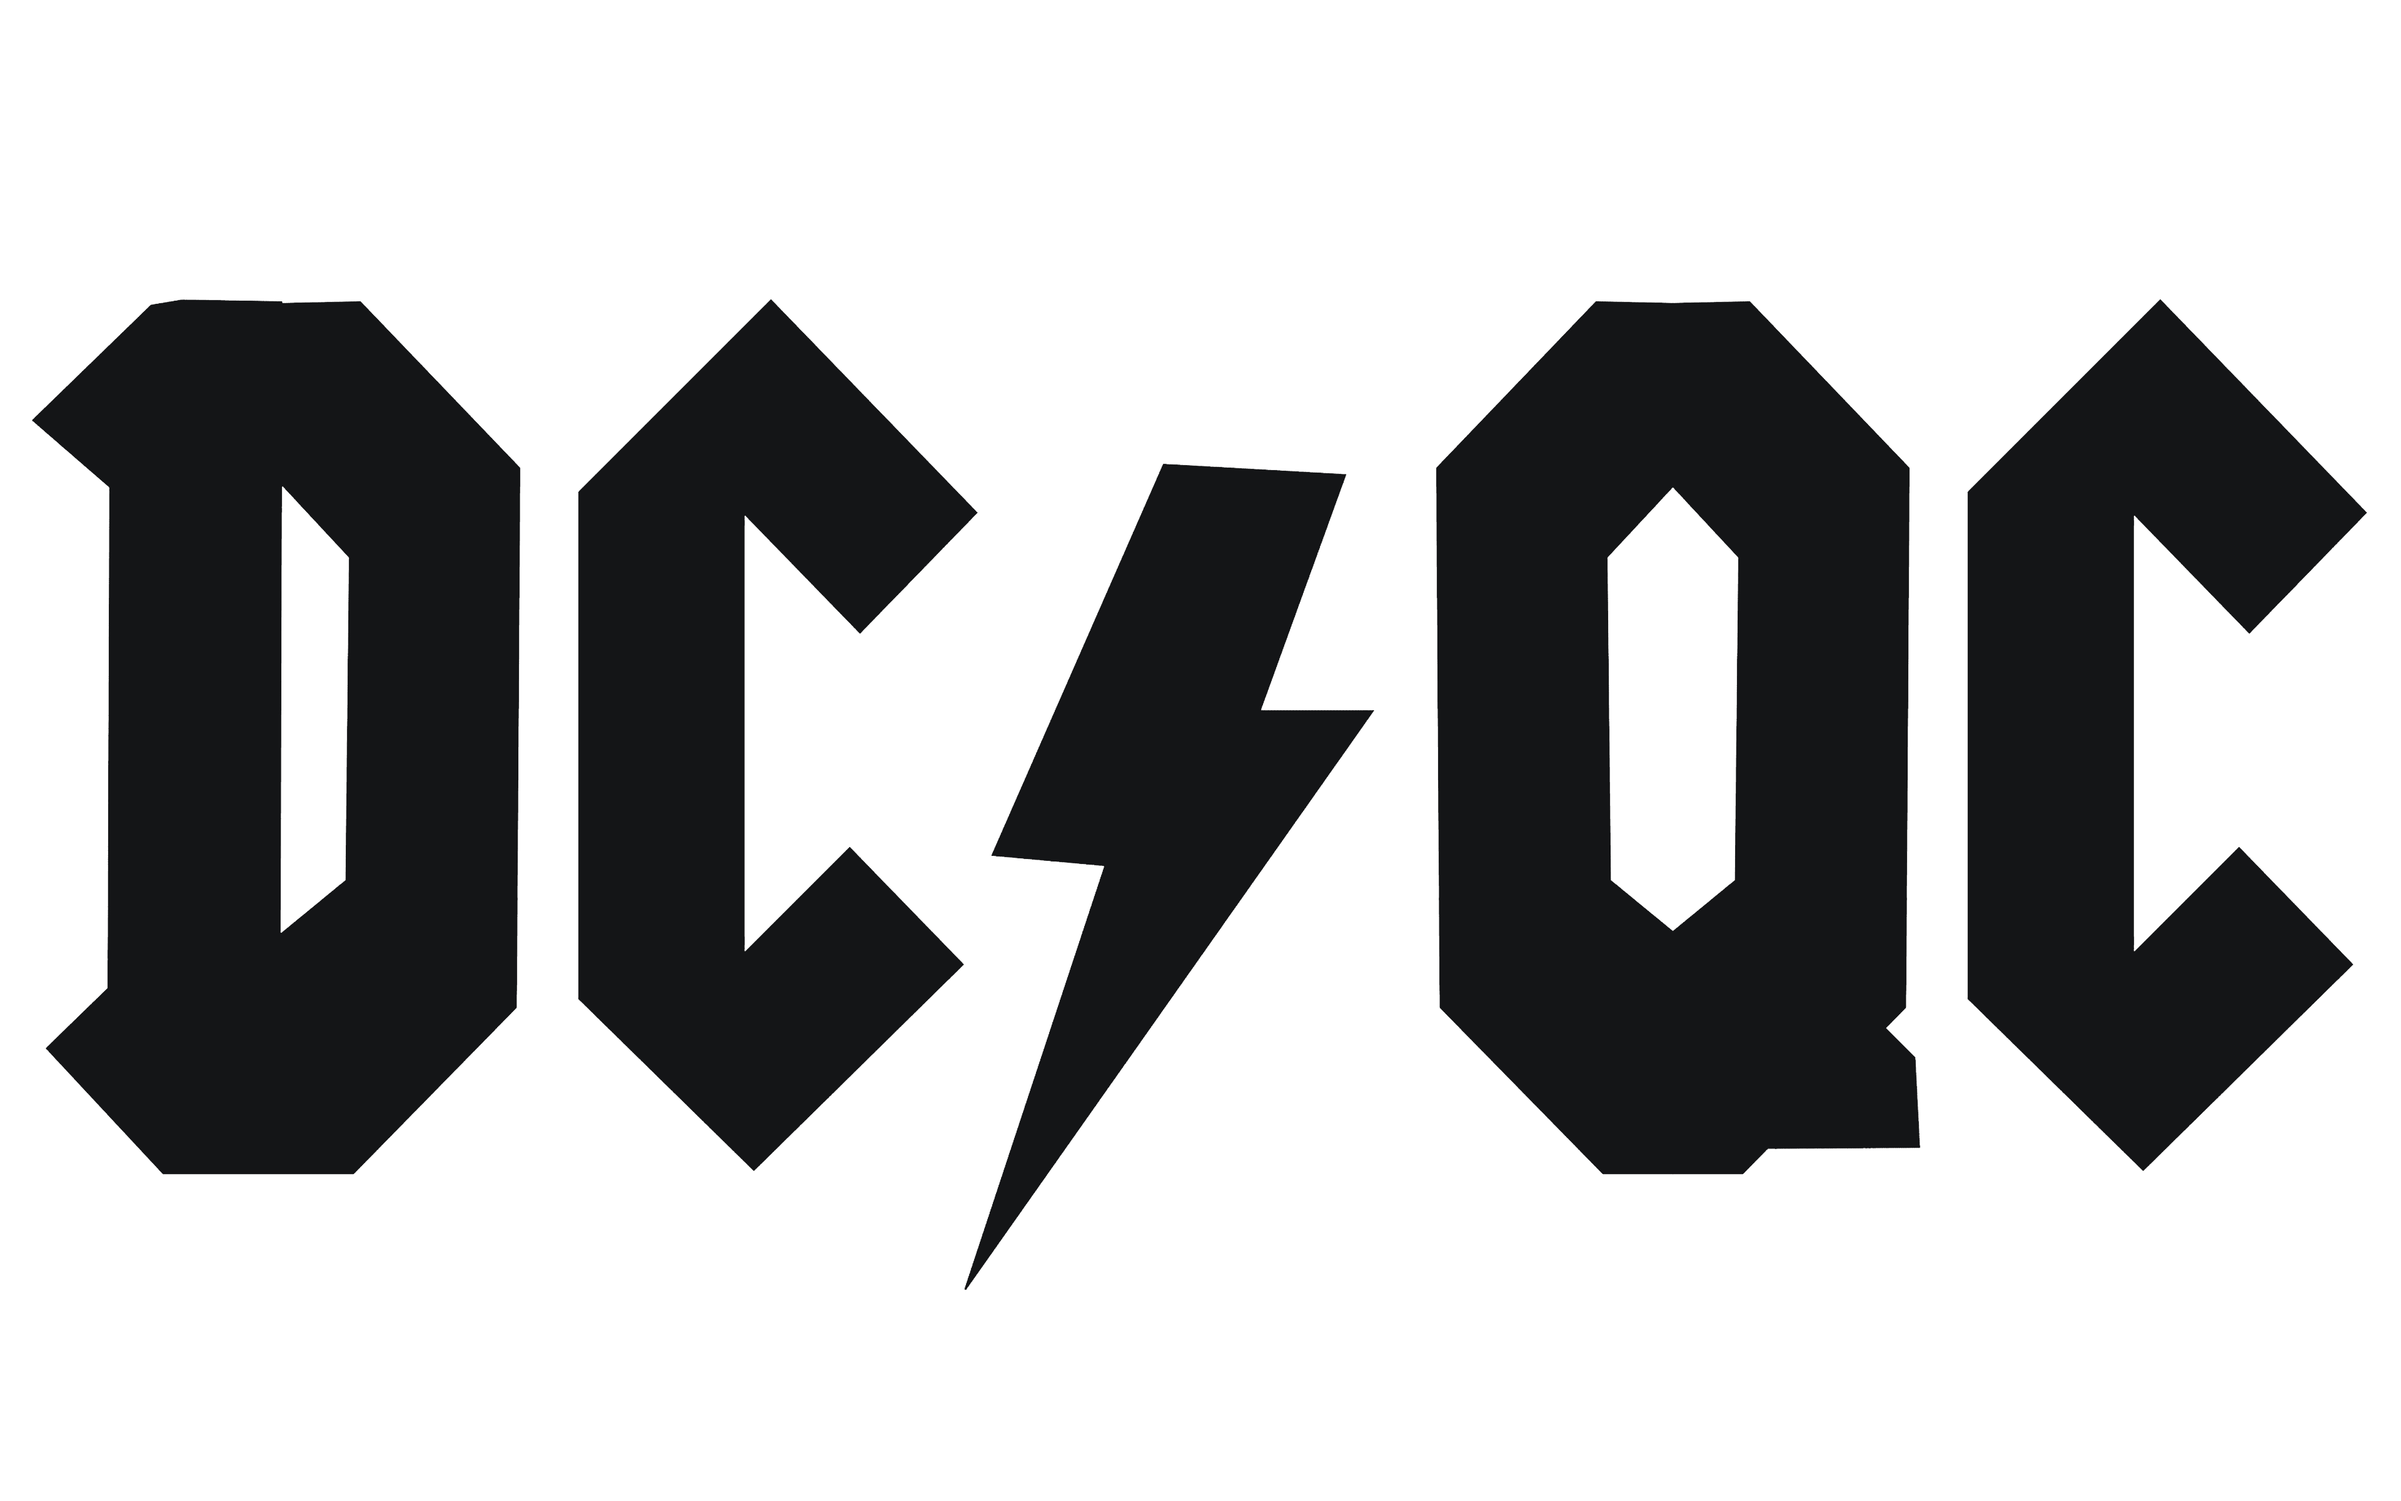
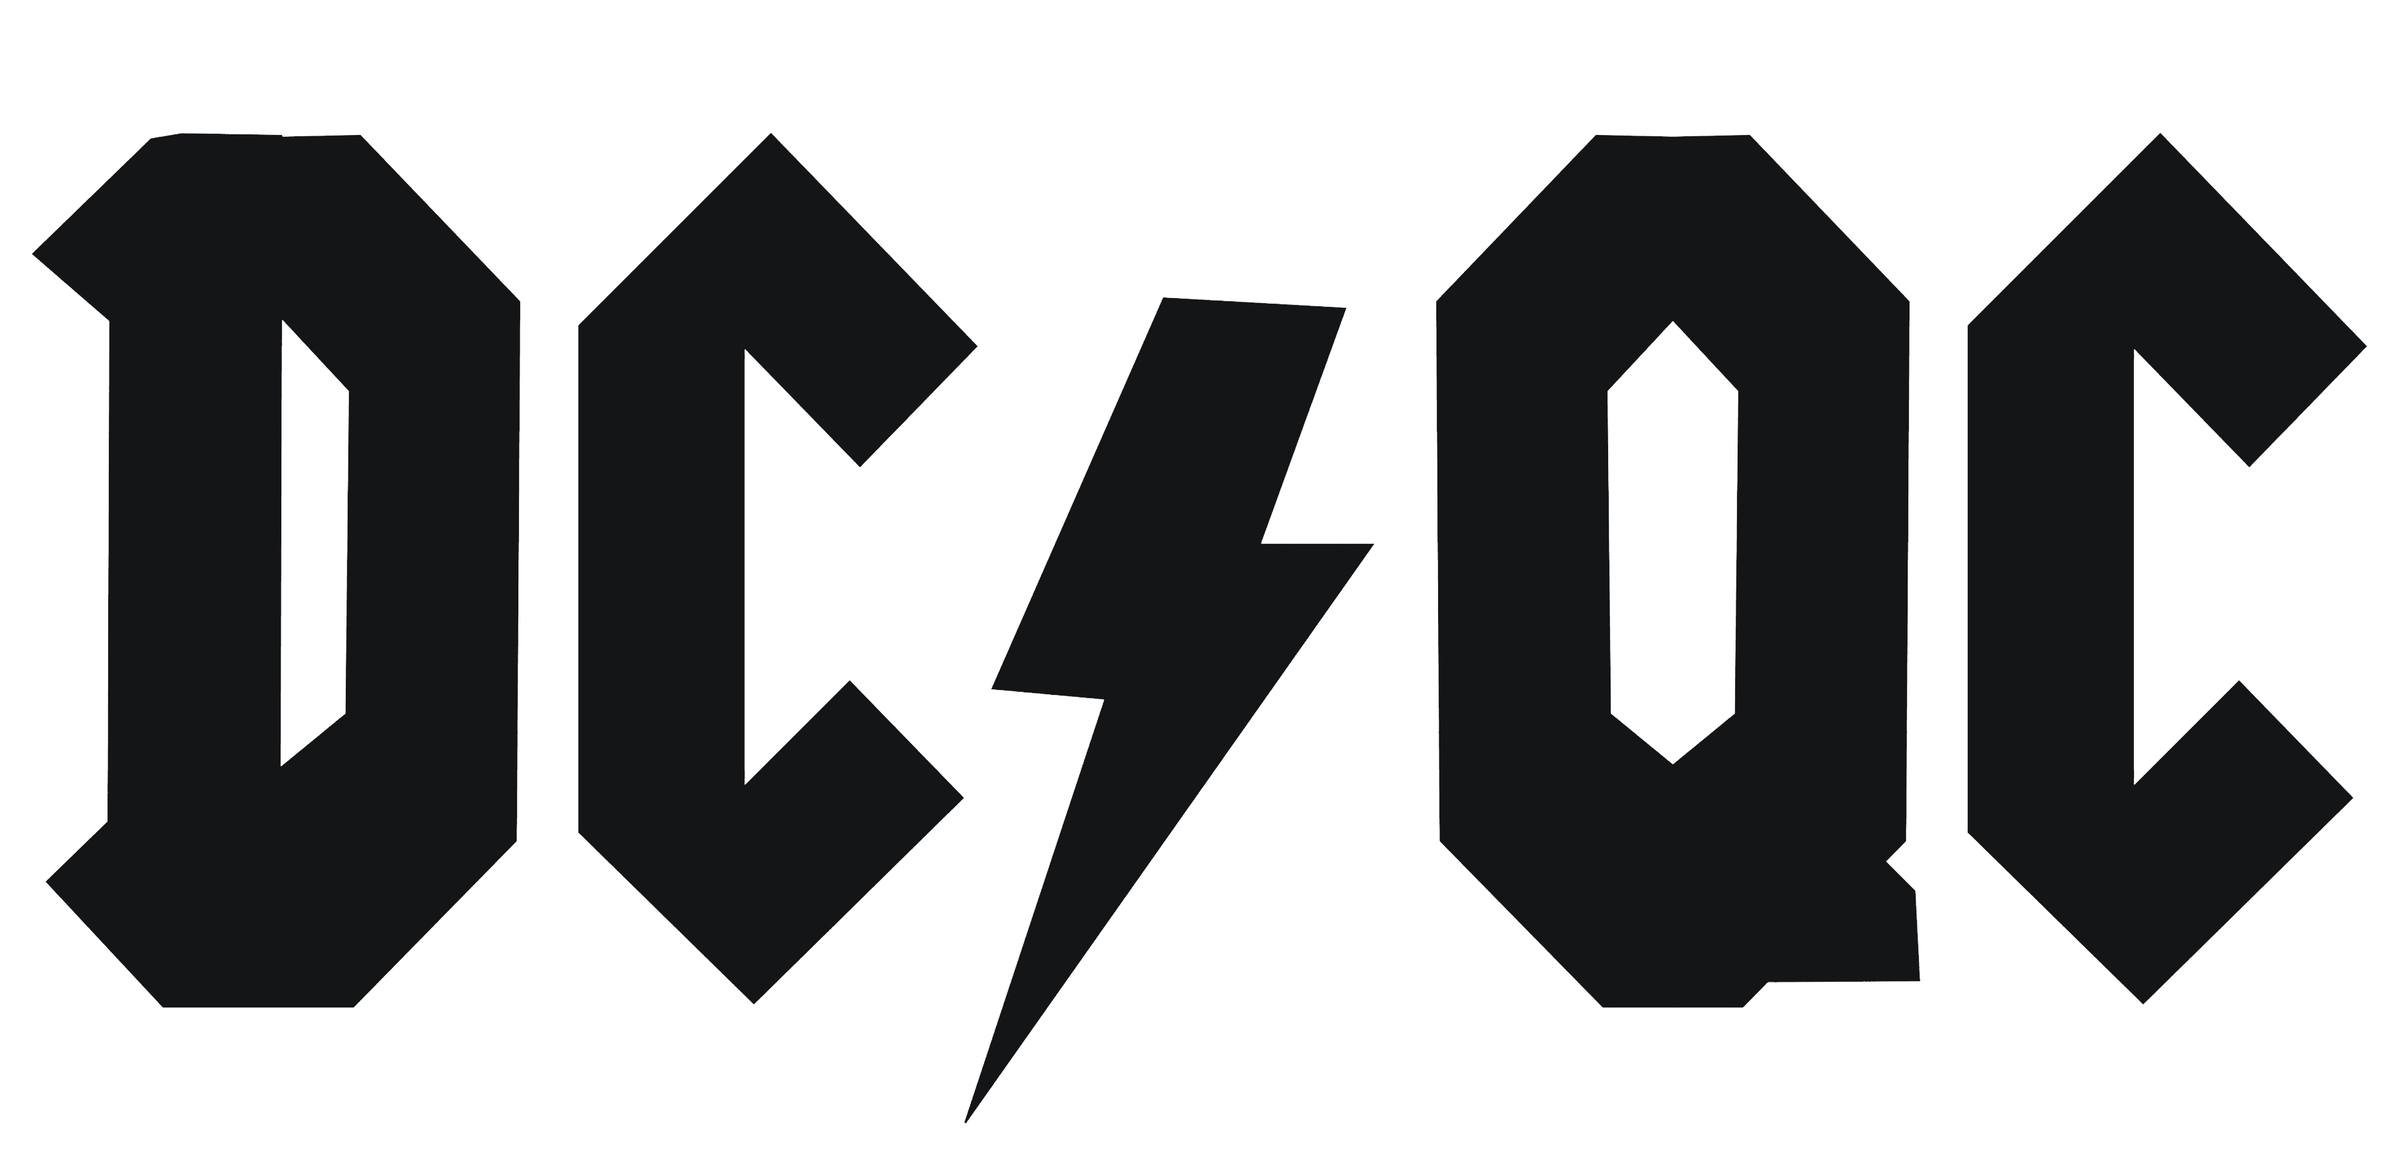
Crop and align images

diff --git a/README.md b/README.md
@@ -1,6 +1,6 @@
 # Data Coordination Quality Control - Proof of Concept
 
-<center><img src="assets/dcqc.png" width="50%"></center>
+<img src="assets/dcqc.png" width="50%" align="left">
 
 This repository contains a proof of concept that demonstrates how a Nextflow workflow can be orchestrated by a Python script. In this case, the Python code determines which QC tests need to happen for each files and "queues" them up in Nextflow. Some of these tests are performed by the Python script (_i.e._ internal QC tests), whereas others require running a command in a separate container and interpreting the log files (_i.e._ external QC tests). In both cases, the Python script then collates the test results into JSON reports, both at the file level and the dataset level.
 
@@ -379,7 +379,7 @@ Succeeded   : 50
 
 ## Workflow DAG
 
-<!-- ![Workflow DAG](assets/dag.png) -->
-
-<center><img src="assets/dag.png" width="50%"></center>
+<p align="center">
+  <img src="assets/dag.png" width="67%">
+</p>
 
